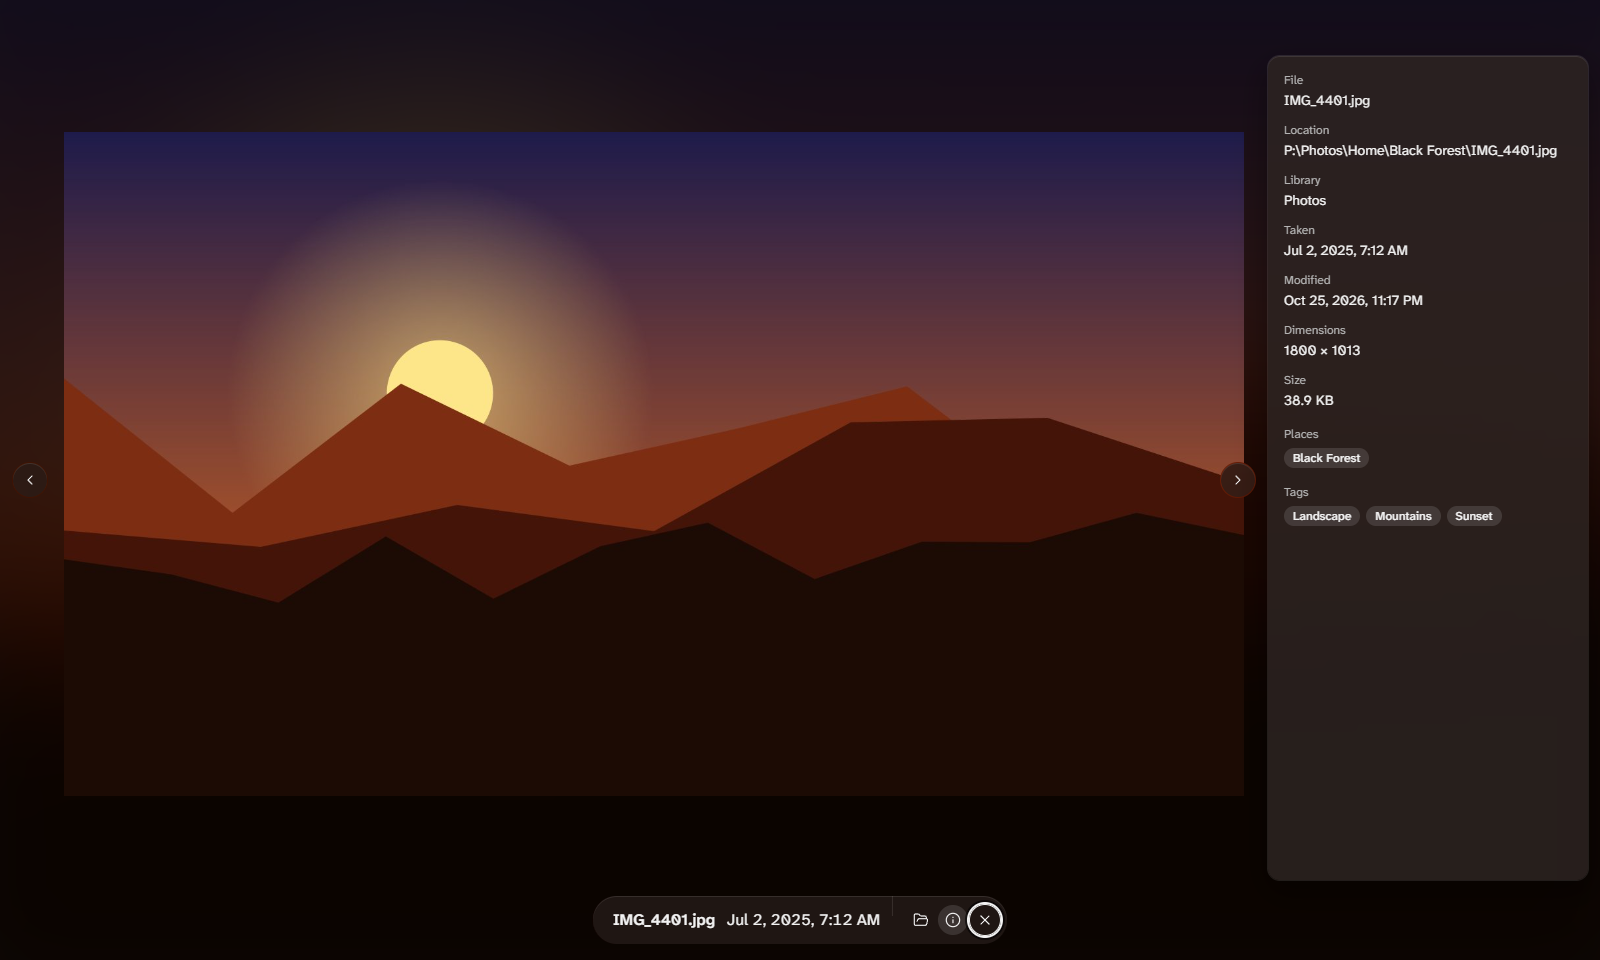
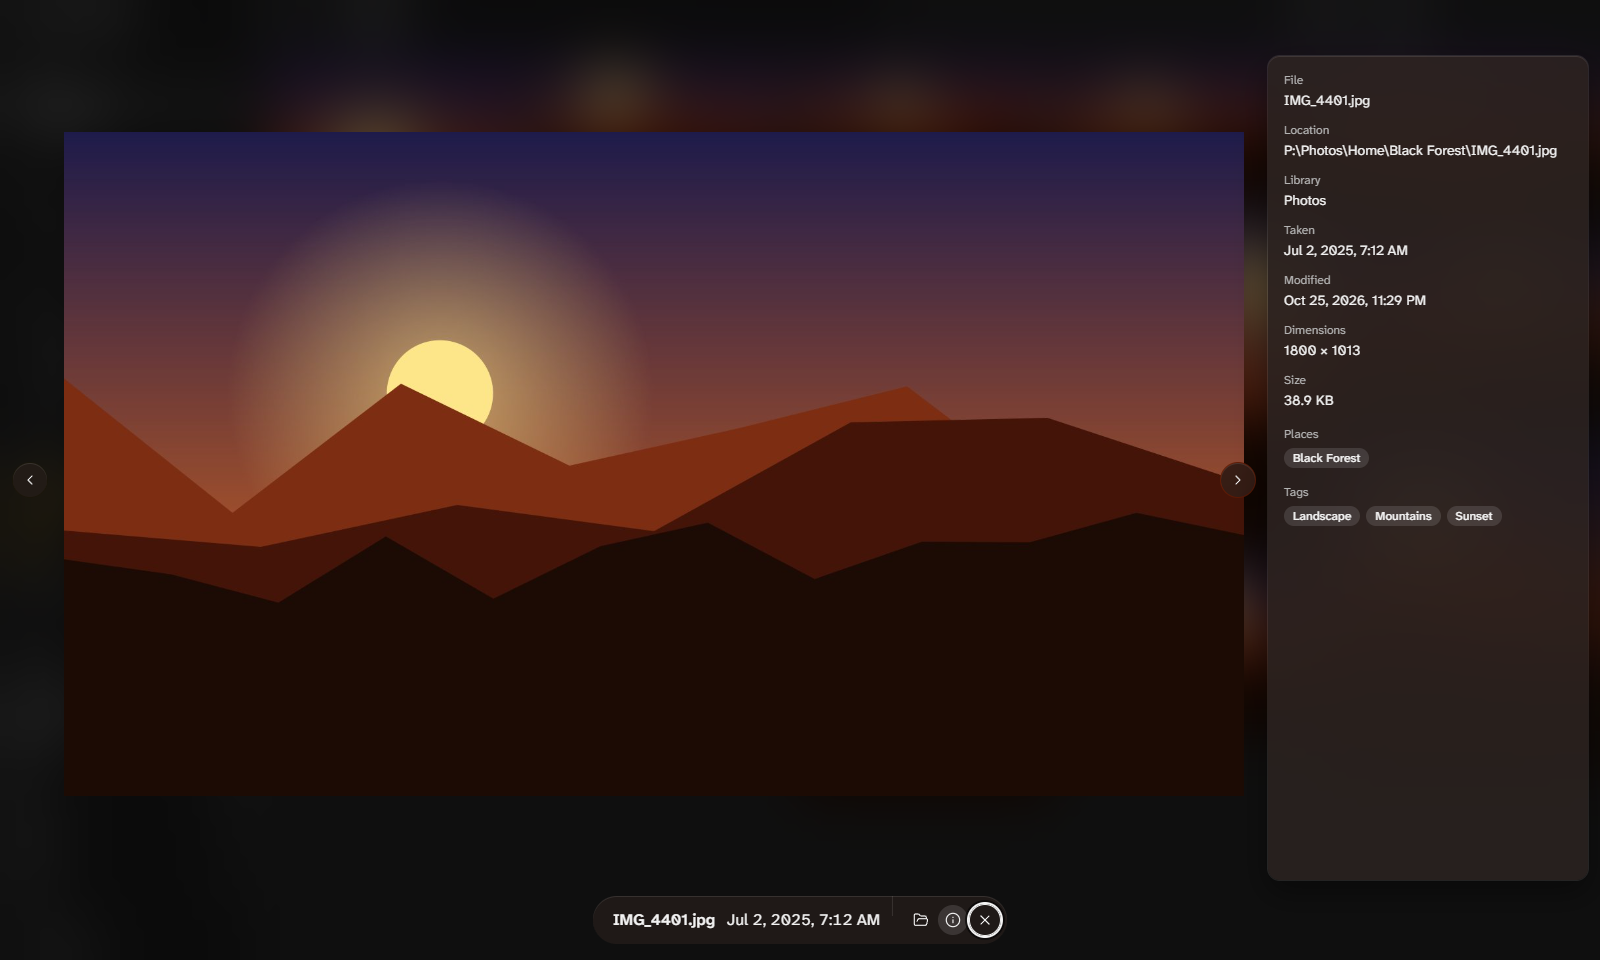
feat: change back blur

diff --git a/e2e/smoke.spec.ts b/e2e/smoke.spec.ts
@@ -262,7 +262,7 @@ test('indexes a library, browses it, filters by tag and shows details', async ()
     await expect(page.getByRole('dialog')).toBeHidden()
   })
 
-  await test.step('REQ-013-09, REQ-013-10, REQ-013-11: immersive, tinted viewer whose controls step aside', async () => {
+  await test.step('REQ-013-14, REQ-013-10, REQ-013-11: tinted viewer over the blurred window; controls step aside', async () => {
     const names = await tiles.evaluateAll((links) => links.map((link) => link.getAttribute('title') ?? ''))
     // A photo: a video that has ended counts as paused and keeps the controls.
     const photo = names.findIndex((name, index) => name.endsWith('.jpg') && index < names.length - 1)
@@ -271,17 +271,35 @@ test('indexes a library, browses it, filters by tag and shows details', async ()
     const controls = viewer.getByRole('toolbar', { name: 'Viewer controls' })
     // Not by name: the name follows the shown item.
     const state = () =>
-      page.getByRole('dialog').evaluate((element) => ({
-        background: getComputedStyle(element).backgroundColor,
-        backdrop: [...element.querySelectorAll<HTMLElement>('[aria-hidden] > div')].map(
-          (layer) => layer.style.backgroundImage,
-        ),
-        tint: element.style.getPropertyValue('--glass-bar-tinted'),
-      }))
+      page.getByRole('dialog').evaluate((element) => {
+        const backdrop = element.querySelector('[data-viewer-backdrop]')
+        const backdropStyle = backdrop ? getComputedStyle(backdrop) : undefined
+        return {
+          background: getComputedStyle(element).backgroundColor,
+          blur: backdropStyle?.backdropFilter,
+          scrim: backdropStyle?.backgroundColor,
+          // The sidebar is still painted behind the viewer.
+          behind: document.elementsFromPoint(40, 300).some((other) => other.closest('[data-sidebar=sidebar]')),
+          tint: element.style.getPropertyValue('--glass-bar-tinted'),
+        }
+      })
     await expect.poll(async () => (await state()).tint).toMatch(/^rgb\(/)
+    // Polls: while the opening view transition runs, its overlay takes all hit tests.
+    await expect.poll(state).toMatchObject({
+      background: 'rgba(0, 0, 0, 0)',
+      blur: expect.stringContaining('blur'),
+      scrim: expect.stringMatching(/^rgba\(0, 0, 0, 0\.\d+\)$/),
+      behind: true,
+    })
     const first = await state()
-    expect(first.background).toBe('rgb(31, 31, 31)')
-    expect(first.backdrop).toEqual([expect.stringContaining('gg-thumb://')])
+    // With reduced transparency, the area around the item is opaque.
+    const cdp = await page.context().newCDPSession(page)
+    await cdp.send('Emulation.setEmulatedMedia', {
+      features: [{ name: 'prefers-reduced-transparency', value: 'reduce' }],
+    })
+    expect(await state()).toMatchObject({ blur: 'none', scrim: 'rgb(31, 31, 31)' })
+    await cdp.send('Emulation.setEmulatedMedia', { features: [] })
+    await cdp.detach()
 
     // The mouse rests after the click: the controls fade out, and come back on movement.
     await expect.poll(() => opacity(controls), { timeout: 6000 }).toBe('0')
@@ -296,8 +314,6 @@ test('indexes a library, browses it, filters by tag and shows details', async ()
     await page.keyboard.press('ArrowRight')
     await expect(page.getByRole('dialog', { name: names[photo + 1] })).toBeVisible()
     await expect.poll(async () => (await state()).tint).not.toBe(first.tint)
-    // The previous item stays underneath while the next one fades in.
-    expect((await state()).backdrop).toHaveLength(2)
     await page.keyboard.press('Escape')
     await expect(page.getByRole('dialog')).toBeHidden()
   })

diff --git a/src/renderer/src/components/media-viewer.tsx b/src/renderer/src/components/media-viewer.tsx
@@ -1,10 +1,10 @@
-import { mediaUrl, thumbUrl } from '@shared/media-urls'
+import { mediaUrl } from '@shared/media-urls'
 import { keepPreviousData, useMutation, useQuery } from '@tanstack/react-query'
 import { ChevronLeftIcon, ChevronRightIcon, FolderOpenIcon, InfoIcon, XIcon } from 'lucide-react'
 import { type CSSProperties, useEffect, useMemo, useState } from 'react'
 import { toast } from 'sonner'
 import { MediaContextMenu } from '@/components/media-context-menu'
-import { type MediaDetails, MediaInfo, Rating } from '@/components/media-info'
+import { MediaInfo, Rating } from '@/components/media-info'
 import { Button } from '@/components/ui/button'
 import { Separator } from '@/components/ui/separator'
 import { ZoomableImage } from '@/components/zoomable-image'
@@ -12,7 +12,6 @@ import { useIdle } from '@/hooks/use-idle'
 import { ambientGlassStyle } from '@/lib/ambient'
 import { formatDateTime } from '@/lib/format'
 import { controlsHidden } from '@/lib/idle'
-import { thumbhashDataUrl } from '@/lib/thumbhash'
 import { trpc } from '@/lib/trpc'
 import { cn } from '@/lib/utils'
 
@@ -27,42 +26,6 @@ export interface MediaNeighbour {
 
 function preload(item: MediaNeighbour | undefined) {
   if (item?.kind === 'image') new Image().src = mediaUrl(item.id)
-}
-
-interface BackdropLayer {
-  id: number
-  placeholder?: string
-}
-
-/**
- * The shown item itself, blurred and darkened, fills the window behind it (REQ-013-09). The previous item stays
- * underneath while the next one fades in.
- */
-function ViewerBackdrop({ item }: { item: MediaDetails | undefined }) {
-  const [layers, setLayers] = useState<BackdropLayer[]>([])
-  const id = item?.id
-  const thumbhash = item?.thumbhash
-  useEffect(() => {
-    if (id === undefined) return
-    const layer = { id, placeholder: thumbhash ? thumbhashDataUrl(thumbhash) : undefined }
-    setLayers((previous) => [...previous.filter((other) => other.id !== id).slice(-1), layer])
-  }, [id, thumbhash])
-
-  return (
-    <div className="absolute inset-0 overflow-hidden" aria-hidden>
-      {layers.map((layer) => (
-        <div
-          key={layer.id}
-          className="absolute -inset-24 animate-in bg-center bg-cover blur-[60px] brightness-35 saturate-120 fade-in duration-(--duration-base)"
-          style={{
-            backgroundImage: [`url("${thumbUrl(layer.id, 400)}")`, layer.placeholder && `url("${layer.placeholder}")`]
-              .filter(Boolean)
-              .join(', '),
-          }}
-        />
-      ))}
-    </div>
-  )
 }
 
 interface MediaViewerProps {
@@ -121,10 +84,12 @@ export function MediaViewer({ id, prev, next, onNavigate, onClose }: MediaViewer
       aria-modal="true"
       aria-label={item?.fileName ?? 'Media viewer'}
       data-viewer
-      className={cn('fixed inset-0 z-50 overflow-hidden bg-background text-foreground', hidden && 'cursor-none')}
+      className={cn('fixed inset-0 z-50 overflow-hidden text-foreground', hidden && 'cursor-none')}
       style={tint}
     >
-      <ViewerBackdrop item={item} />
+      {/* The window behind stays visible, blurred and darkened (REQ-013-14). A sibling of the controls, so their own
+          glass still blurs what is behind the viewer. */}
+      <div data-viewer-backdrop aria-hidden className="glass-scrim absolute inset-0" />
       {/* The viewer covers the title bar; this strip still moves the window. */}
       <div className="drag-region absolute inset-x-0 top-0 z-10 h-12" />
       <MediaContextMenu id={id} onInformation={() => setShowInfo(true)}>

diff --git a/src/renderer/src/styles.css b/src/renderer/src/styles.css
@@ -67,6 +67,7 @@
   --glass-bar: rgb(28 28 28 / 0.72);
   --glass-panel: rgb(36 36 36 / 0.86);
   --field: rgb(0 0 0 / 0.35);
+  --scrim: rgb(0 0 0 / 0.5);
 
   /* Focus: a light ring with a dark ring outside it, visible over any photo. */
   --ring: var(--paper);
@@ -144,6 +145,19 @@
   }
   @supports not (backdrop-filter: blur(1px)) {
     background-color: var(--raised);
+  }
+}
+
+/* The whole window behind the viewer, blurred and darkened (REQ-013-14). */
+@utility glass-scrim {
+  background-color: var(--scrim);
+  backdrop-filter: blur(28px) saturate(1.2);
+  @media (prefers-reduced-transparency: reduce) {
+    background-color: var(--darkroom);
+    backdrop-filter: none;
+  }
+  @supports not (backdrop-filter: blur(1px)) {
+    background-color: var(--darkroom);
   }
 }
 

diff --git a/docs/design.md b/docs/design.md
@@ -12,7 +12,7 @@ A personal archive of photos and videos, often on a NAS, browsed by one person w
 
 1. **Photos are the only color.** Chrome is neutral grey with no hue, like the neutral backgrounds of photo-editing tools, so it doesn't shift how colors in a photo are perceived. Hue appears only where it carries meaning (rating stars, errors) or comes from the photo itself.
 2. **Glass only over real content.** Translucent surfaces exist where something worth seeing is behind them: the gallery under the toolbar, the photo under the viewer controls, the window under a menu. No decorative gradients or blobs behind glass.
-3. **One loud idea.** In the viewer, the photo becomes its own backdrop and tints the chrome around it. Everything else stays quiet so this can be noticed.
+3. **One loud idea.** The viewer floats over the blurred, darkened window, so the user still senses where they were, and the photo tints the chrome around it. Everything else stays quiet so this can be noticed.
 4. **The same on every platform.** Windows, macOS and Linux look identical: bundled font, own colors, no OS materials (Mica, vibrancy). Only the native window controls differ.
 5. **Dense, but legible.** Libraries are large and the user scans a lot of names and numbers. Prefer compact layouts and tabular figures, but never trade away contrast or hit size.
 
@@ -25,7 +25,8 @@ A personal archive of photos and videos, often on a NAS, browsed by one person w
 | Glass bar       | `glass-bar`   | `rgb(28 28 28 / 0.72)`, blur 24px, saturate 160 %, Rim    | Toolbar, viewer control bar, viewer arrows                   |
 | Glass panel     | `glass-panel` | `rgb(36 36 36 / 0.86)`, blur 32px, saturate 140 %, Rim    | Menus, popovers, select lists, command list, dialogs, sheets, info panel |
 | Field           | `bg-field`    | `rgb(0 0 0 / 0.35)`                                       | Inputs and the search bar on glass                           |
-| Raised          | —             | `#2A2A2A`                                                 | Opaque fallback for both glass levels                        |
+| Scrim           | `glass-scrim` | `rgb(0 0 0 / 0.5)`, blur 28px, saturate 120 %             | The whole window behind the viewer                           |
+| Raised          | —             | `#2A2A2A`                                                 | Opaque fallback for both glass levels (Darkroom for the Scrim) |
 
 Rules:
 
@@ -126,6 +127,7 @@ lucide, 16px, stroke 1.75. An icon earns its place when it helps scanning or rep
 | 2026-10-25 | No OS materials (Mica, vibrancy), native window controls kept | macOS and Linux are planned and should look the same. Replacing window controls would feel foreign on each OS. |
 | 2026-10-25 | Achromatic chrome, no brand accent                        | Neutral chrome doesn't bias how photo colors are perceived. The viewer's Ambient is the color moment. |
 | 2026-10-25 | Atkinson Hyperlegible Next instead of Geist               | Distinct `I l 1` / `O 0` for file names, legible at small sizes on glass, tabular figures, bundled for all platforms. |
+| 2026-10-25 | Viewer over the blurred window, not over a blurred copy of the photo | Users keep a sense of where they came from in the gallery (REQ-013-14 replaces REQ-013-09). |
 | 2026-10-25 | Dark only                                                 | A light theme is out of scope for now. Tokens stay semantic so it can be added later.    |
 | 2026-10-25 | Glass over the scrolling gallery                         | Measured on 3 000 photos: no frame-time cost compared with an opaque toolbar (see `known-pitfalls.md`). |
 | 2026-10-25 | Glass bar at 0.72 and panel at 0.86 opacity               | Over a white photo: Paper on the bar 6.0:1, Mist on a Field on the bar 5.4:1 (on the bare bar only 3.3:1, hence the Field rule), Paper / Mist on the panel 8.9:1 / 4.8:1. |

diff --git a/docs/specs/013-visual-design/spec.md b/docs/specs/013-visual-design/spec.md
@@ -4,7 +4,7 @@
 
 ## Goal
 
-Good Gallery gets its own look instead of the shadcn defaults. The photos are the only color, and controls float over them as glass. The toolbar fits small windows, the viewer is immersive and takes its color from the photo, and the app looks the same on Windows, macOS and Linux. Design decisions and tokens are recorded in [docs/design.md](../../design.md).
+Good Gallery gets its own look instead of the shadcn defaults. The photos are the only color, and controls float over them as glass. The toolbar fits small windows, the viewer floats over the blurred window and takes its color from the photo, and the app looks the same on Windows, macOS and Linux. Design decisions and tokens are recorded in [docs/design.md](../../design.md).
 
 ## Requirements
 
@@ -63,7 +63,9 @@ Good Gallery gets its own look instead of the shadcn defaults. The photos are th
 - **And** the media kind, date and rating filters are grouped under _Filters_, which shows how many of them are active and offers _Clear filters_
 - **And** gallery view, zoom, sort field and sort direction are grouped under _View_
 
-### REQ-013-09 · Immersive viewer
+### ~~REQ-013-09 · Immersive viewer~~
+
+Deprecated 2026-10-25: a backdrop made from the item itself hides where the user came from. Replaced by REQ-013-14.
 
 - **Given** the viewer
 - **When** it shows a media item
@@ -97,6 +99,14 @@ Good Gallery gets its own look instead of the shadcn defaults. The photos are th
 - **When** it is formatted
 - **Then** it uses the user's locale in medium length, with hours and minutes but without seconds (e.g. "2 Jul 2025, 07:12")
 
+### REQ-013-14 · Viewer over the blurred window
+
+- **Given** the viewer
+- **When** it shows a media item
+- **Then** the whole window behind it (gallery, toolbar and sidebar) stays visible around the item, blurred and darkened, so the user keeps a sense of where they were
+- **And** the item and the viewer's controls stand out clearly against it
+- **And** with reduced transparency (REQ-013-06) the area around the item is opaque instead
+
 ## Out of scope
 
 - A light theme or following the OS light / dark setting (the app stays dark).
@@ -124,8 +134,9 @@ Good Gallery gets its own look instead of the shadcn defaults. The photos are th
 | REQ-013-06 | `e2e/smoke.spec.ts` (emulated reduced transparency makes the toolbar opaque) | pass |
 | REQ-013-07 | `e2e/smoke.spec.ts` (no transition animations, panels without zoom or slide) | pass |
 | REQ-013-08 | `src/renderer/src/lib/search.test.ts` › filters grouped under Filters; `e2e/smoke.spec.ts` (Filters count and _Clear filters_, toolbar at 800 × 600) | pass |
-| REQ-013-09 | `e2e/smoke.spec.ts` (opaque viewer, blurred backdrop of the item, previous layer kept while stepping) | pass |
+| ~~REQ-013-09~~ | — | no test (deprecated) |
 | REQ-013-10 | `src/renderer/src/lib/idle.test.ts` › IdleTimer; controlsHidden; `e2e/smoke.spec.ts` (controls fade out, return on movement, stay with the info panel) | pass |
 | REQ-013-11 | `src/renderer/src/lib/ambient.test.ts` › ambientTint; `src/renderer/src/design-tokens.test.ts` › text stays legible on glass tinted by any photo; `e2e/smoke.spec.ts` (tint follows the item) | pass |
 | REQ-013-12 | `e2e/smoke.spec.ts` (tile and viewer share the transition name, animated both ways) | partial: the fade when the tile isn't rendered is untested |
 | REQ-013-13 | `src/renderer/src/lib/format.test.ts` › formatDateTime | pass |
+| REQ-013-14 | `e2e/smoke.spec.ts` (transparent viewer, blurred scrim, sidebar still painted behind, opaque with reduced transparency) | pass |

diff --git a/docs/specs/013-visual-design/plan.md b/docs/specs/013-visual-design/plan.md
@@ -31,7 +31,7 @@ Four phases, each shippable on its own. Phase 0 is a spike whose results decide 
 
 ### Phase 3 · Viewer
 
-- **Backdrop:** the item's 400px thumbnail as a cover image with `filter: blur(60px) brightness(0.35) saturate(1.2)` (a filter on an image, not `backdrop-filter`), over Darkroom, fully opaque so the gallery doesn't show through. Crossfade on step. The gallery stays mounted behind it (REQ-009-01).
+- **Backdrop:** a `glass-scrim` layer over the whole window (`backdrop-filter` blur and a dark scrim), so the gallery, toolbar and sidebar stay visible behind the item. It is a sibling of the controls, not their ancestor, so their own glass still blurs what's behind the viewer. Replaced the first version, a blurred copy of the item (REQ-013-09, deprecated). The gallery stays mounted behind it (REQ-009-01).
 - **Ambient:** the placeholder's average color (`thumbHashToAverageRGBA`), converted to OKLCH and clamped to L ≤ 0.32, C ≤ 0.06, set as `--ambient` on the viewer. Its glass mixes it in with `color-mix(in oklch, …)`. Unit test for the clamp and for contrast with extreme colors.
 - **Controls:** a bottom pill (`glass-bar`) with file name, date, rating and the actions (_Show in Explorer_, _Info_, _Close_), round glass previous / next buttons, and the info panel as `glass-panel`. An idle hook hides them after 2.5s, unless hovered, the info panel is open or a video is paused.
 - **Transition:** tile and viewer image share a `view-transition-name` for the opened item, navigating with TanStack Router's `viewTransition`. Skipped (instant) under reduced motion, and a fade when the tile isn't mounted.
@@ -55,7 +55,7 @@ Four phases, each shippable on its own. Phase 0 is a spike whose results decide 
 - [x] _Filters_ and _View_ popovers, fits at 800 × 600, e2e locators and specs 006 / 007 updated (REQ-013-08)
 - [x] Sidebar and tile polish (no REQ, no behavior change)
 - [x] `formatDateTime` in the info panel and List view (REQ-013-13)
-- [x] Immersive viewer backdrop with crossfade (REQ-013-09)
+- [x] ~~Immersive viewer backdrop with crossfade (REQ-013-09)~~ replaced by the blurred window behind the viewer (REQ-013-14)
 - [x] Ambient tint with clamping (REQ-013-11, REQ-013-04)
 - [x] Viewer control bar with idle hiding (REQ-013-10)
 - [x] Tile ↔ viewer view transition with reduced-motion and fallback paths (REQ-013-12, REQ-013-07)

diff --git a/docs/known-pitfalls.md b/docs/known-pitfalls.md
@@ -37,5 +37,6 @@
 * **`color-mix()` with `transparent`** lowers the alpha of the result. Don't mix an optional tint into translucent glass that way; compute the tinted color (`lib/ambient.ts`).
 * **A closing Radix popover still takes Escape:** while a menu animates out (≈ 100 ms), its dismiss layer handles the next Escape and calls `preventDefault()`, so the viewer ignores it. e2e: close menus with `closeMenu()`, which waits until the menu is gone.
 * **tw-animate-css ignores reduced motion:** its zoom and slide values are reset in the `motion` layer of `styles.css`. Component classes set them, so the reset must sit in a layer after `utilities`.
+* **View transitions take all hit tests while they run** (≈ 320 ms): `elementsFromPoint()` and clicks only reach the `::view-transition` overlay. e2e: poll for the state after opening or closing the viewer.
 * **View transition names must be unique:** the tile and the viewer's media only share `media-hero` one at a time (`:has([data-viewer])` in `styles.css`); with a duplicate name the browser skips the transition.
 * **Scroll performance at high zoom** (open issue, measured 2026-10-25 for spec 013): fast scrolling (1440 px/s) at 12 columns over 3 000 photos drops frames with or without glass (p95 frame time ≈ 110 ms, vs ≈ 17–28 ms at 5 columns). Glass toolbars and panels added no measurable cost.

diff --git a/README.md b/README.md
@@ -11,7 +11,7 @@ A Windows desktop gallery for large photo and video libraries (50k–500k files)
 - **Change detection:** a file watcher picks up changes, plus periodic quick scans. Manual rescans are also possible.
 - **Search:** combine tags (include or exclude, hierarchical), filename text and folder; media type, date range and rating are under _Filters_. Sort by date taken, date modified, name, path or size.
 - **Sidebar:** libraries with a folder tree, People and Places (from keyword hierarchies and face regions), ratings and popular tags.
-- **Viewer:** the photo fills the window over a blurred version of itself, with controls that step aside while you look. Keyboard navigation, zoom and pan, video playback, a metadata panel and "Show in Explorer".
+- **Viewer:** the photo floats over the blurred window, with controls that step aside while you look. Keyboard navigation, zoom and pan, video playback, a metadata panel and "Show in Explorer".
 - **Look:** dark, neutral chrome so only your photos bring color; the toolbar and menus are frosted glass over the gallery.
 - **Read-only:** tags and ratings come from EXIF / IPTC / XMP and `.xmp` sidecars. Files are never modified.
 

diff --git a/docs/specs/README.md b/docs/specs/README.md
@@ -18,7 +18,7 @@ Specs 001–011 were written retrospectively (2026-10-25) for features built bef
 | [010-settings](010-settings/spec.md)                     | Indexing and thumbnail cache settings                            | Implemented |
 | [011-security](011-security/spec.md)                     | Renderer isolation, API and file access boundaries               | Implemented |
 | [012-spec-consistency](012-spec-consistency/spec.md)     | Check that specs and tests reference each other                  | Implemented |
-| [013-visual-design](013-visual-design/spec.md)           | Glass chrome, typeface, compact toolbar, immersive viewer        | Implemented |
+| [013-visual-design](013-visual-design/spec.md)           | Glass chrome, typeface, compact toolbar, viewer over the blur    | Implemented |
 
 ## Conventions
 
